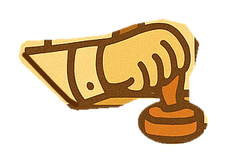
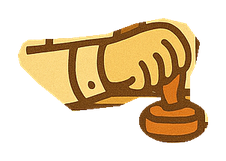
fix(ui): bras identique à l'illustration au repos, contour et coude arrondi une fois levé
Au repos, le calque du bras reprend les pixels d'origine (plus de
diagonale ni de liseré autour du bras). Pendant la levée, une variante
avec coude arrondi et contour inférieur apparaît en fondu.

Changed region(s): [[0.0619, 0.0932, 0.9292, 0.8696], [0.6814, 0.8696, 0.8363, 0.9006], [0.8673, 0.6522, 0.8982, 0.6832]]

diff --git a/components/SceneGuichet.tsx b/components/SceneGuichet.tsx
@@ -11,7 +11,13 @@ import Animated, {
 import { useGameState } from '@/context/GameStateContext';
 import Colors, { Charte, Fonts } from '@/constants/Colors';
 import Panneau from '@/components/charte/Panneau';
-import { BRAS_GUICHET, FOND_GUICHET, LEVEE, cadrerIllustration } from '@/components/scene/illustration';
+import {
+  BRAS_CONTOUR_GUICHET,
+  BRAS_GUICHET,
+  FOND_GUICHET,
+  LEVEE,
+  cadrerIllustration,
+} from '@/components/scene/illustration';
 
 /** Hauteur de la scène (pt). */
 const HAUTEUR_SCENE = 200;
@@ -97,6 +103,8 @@ export default function SceneGuichet() {
       { rotate: `${-bras.value * LEVEE.angle}deg` },
     ],
   }));
+  // Le contour du dessous n'existe pas sur l'illustration : il n'apparaît que bras levé.
+  const styleContour = useAnimatedStyle(() => ({ opacity: Math.min(1, bras.value * 4) }));
   const styleImage = useAnimatedStyle(() => ({
     transform: [{ translateY: secousse.value * 3 }, { scale: 1 + secousse.value * 0.012 }],
   }));
@@ -129,10 +137,10 @@ export default function SceneGuichet() {
       {largeur > 0 && verdict && <Empreinte key={verdict.id} rejete={verdict.rejete} position={positionEmpreinte} />}
 
       {largeur > 0 && (
-        <Animated.Image
-          source={BRAS_GUICHET}
-          style={[styles.calque, styles.bras, cadres.bras, styleBras]}
-        />
+        <Animated.View style={[styles.calque, styles.bras, cadres.bras, styleBras]}>
+          <Image source={BRAS_GUICHET} style={styles.plein} />
+          <Animated.Image source={BRAS_CONTOUR_GUICHET} style={[styles.plein, styleContour]} />
+        </Animated.View>
       )}
     </Panneau>
   );
@@ -151,6 +159,13 @@ const styles = StyleSheet.create({
   },
   bras: {
     zIndex: 3,
+  },
+  plein: {
+    position: 'absolute',
+    top: 0,
+    left: 0,
+    width: '100%',
+    height: '100%',
   },
   bulle: {
     position: 'absolute',

diff --git a/components/scene/illustration.ts b/components/scene/illustration.ts
@@ -5,12 +5,14 @@
  */
 export const FOND_GUICHET = require('@/assets/scene/guichet-fond.png');
 export const BRAS_GUICHET = require('@/assets/scene/guichet-bras.png');
+/** Même bras, avec un contour inférieur et un coude arrondi : affiché quand il est levé. */
+export const BRAS_CONTOUR_GUICHET = require('@/assets/scene/guichet-bras-contour.png');
 
 /** Dimensions de l'image de fond (px). */
 const IMAGE = { largeur: 1152, hauteur: 768 };
 
 /** Calque du bras dans le repère de l'image (px), pivot en fraction du calque. */
-const BRAS = { x: 430.5, y: 382.5, largeur: 226, hauteur: 163, pivotX: 0.1163, pivotY: 0.318 };
+const BRAS = { x: 429, y: 383.25, largeur: 226, hauteur: 161, pivotX: 0.1225, pivotY: 0.3163 };
 
 /** Centre de l'empreinte sur le papier du bureau, à droite du tampon posé (px de l'image). */
 const EMPREINTE = { x: 668, y: 512 };
